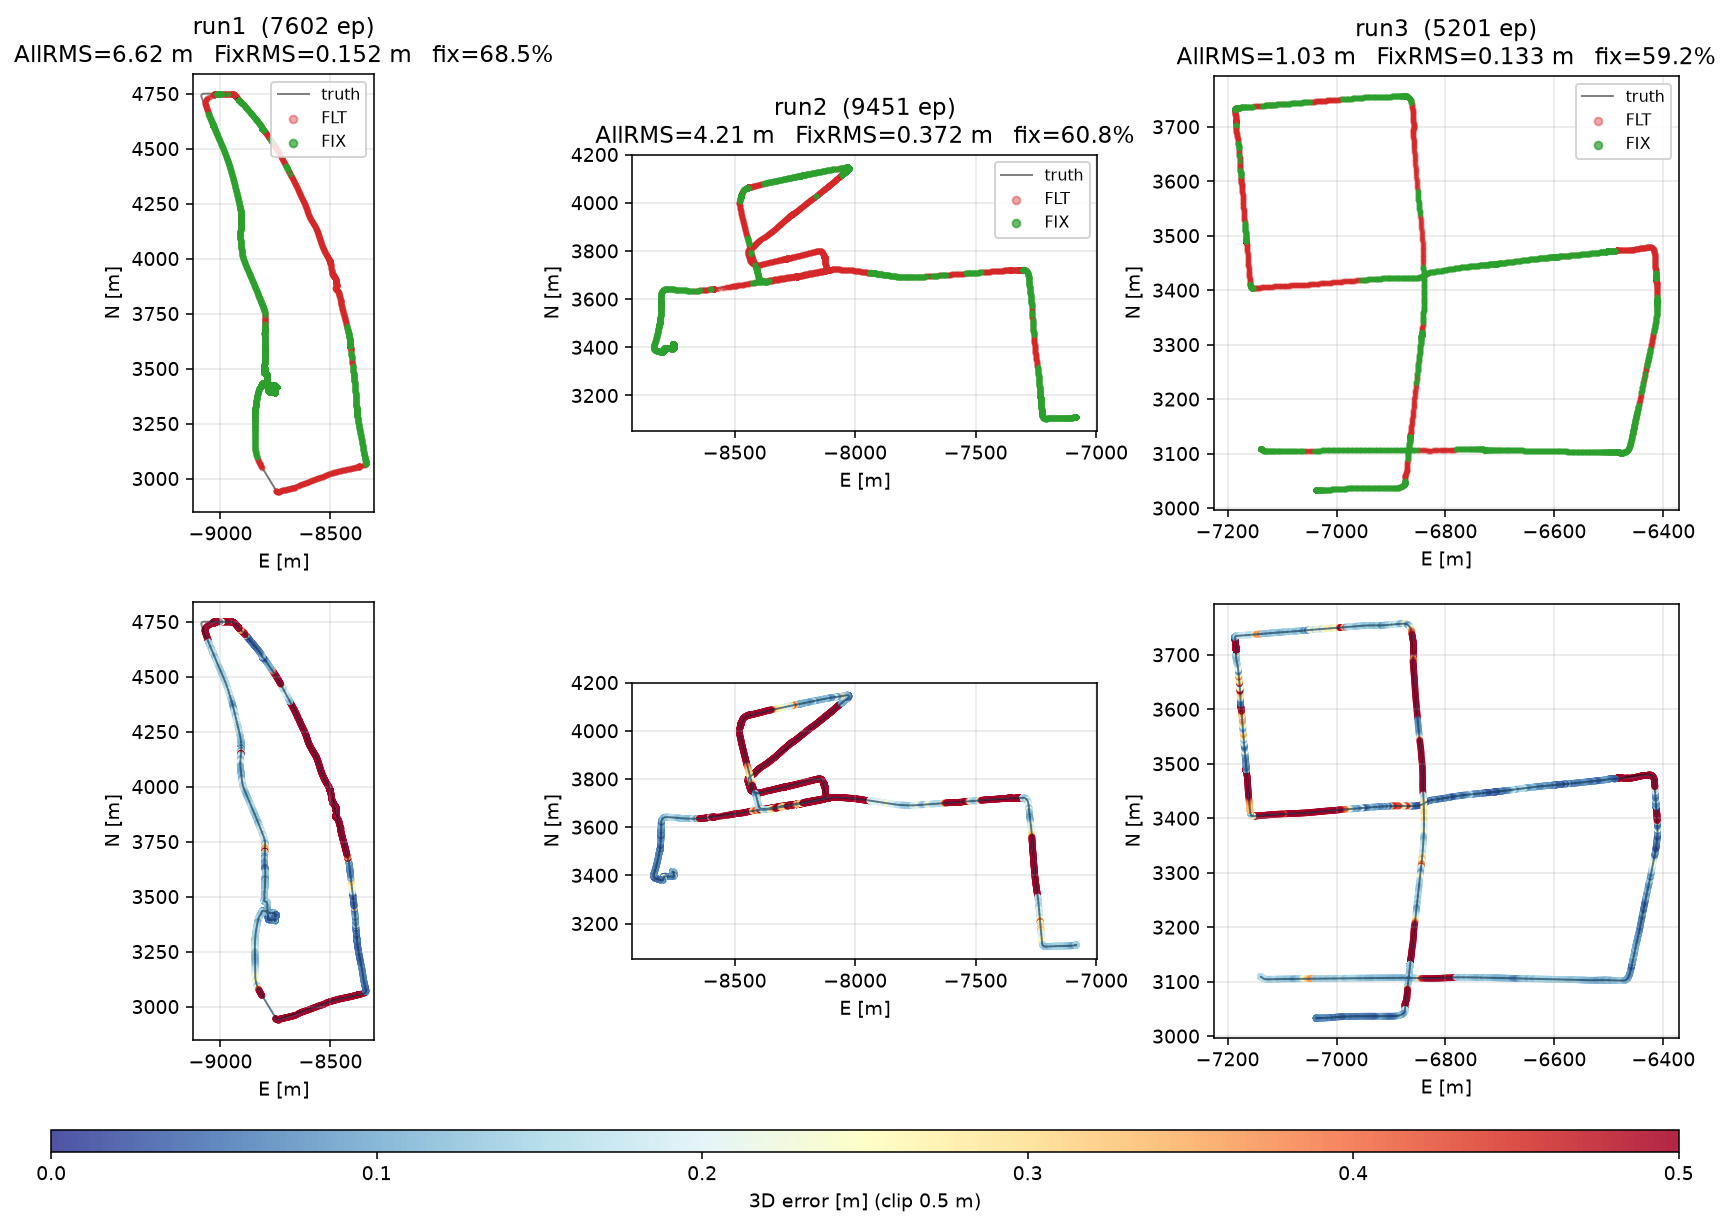
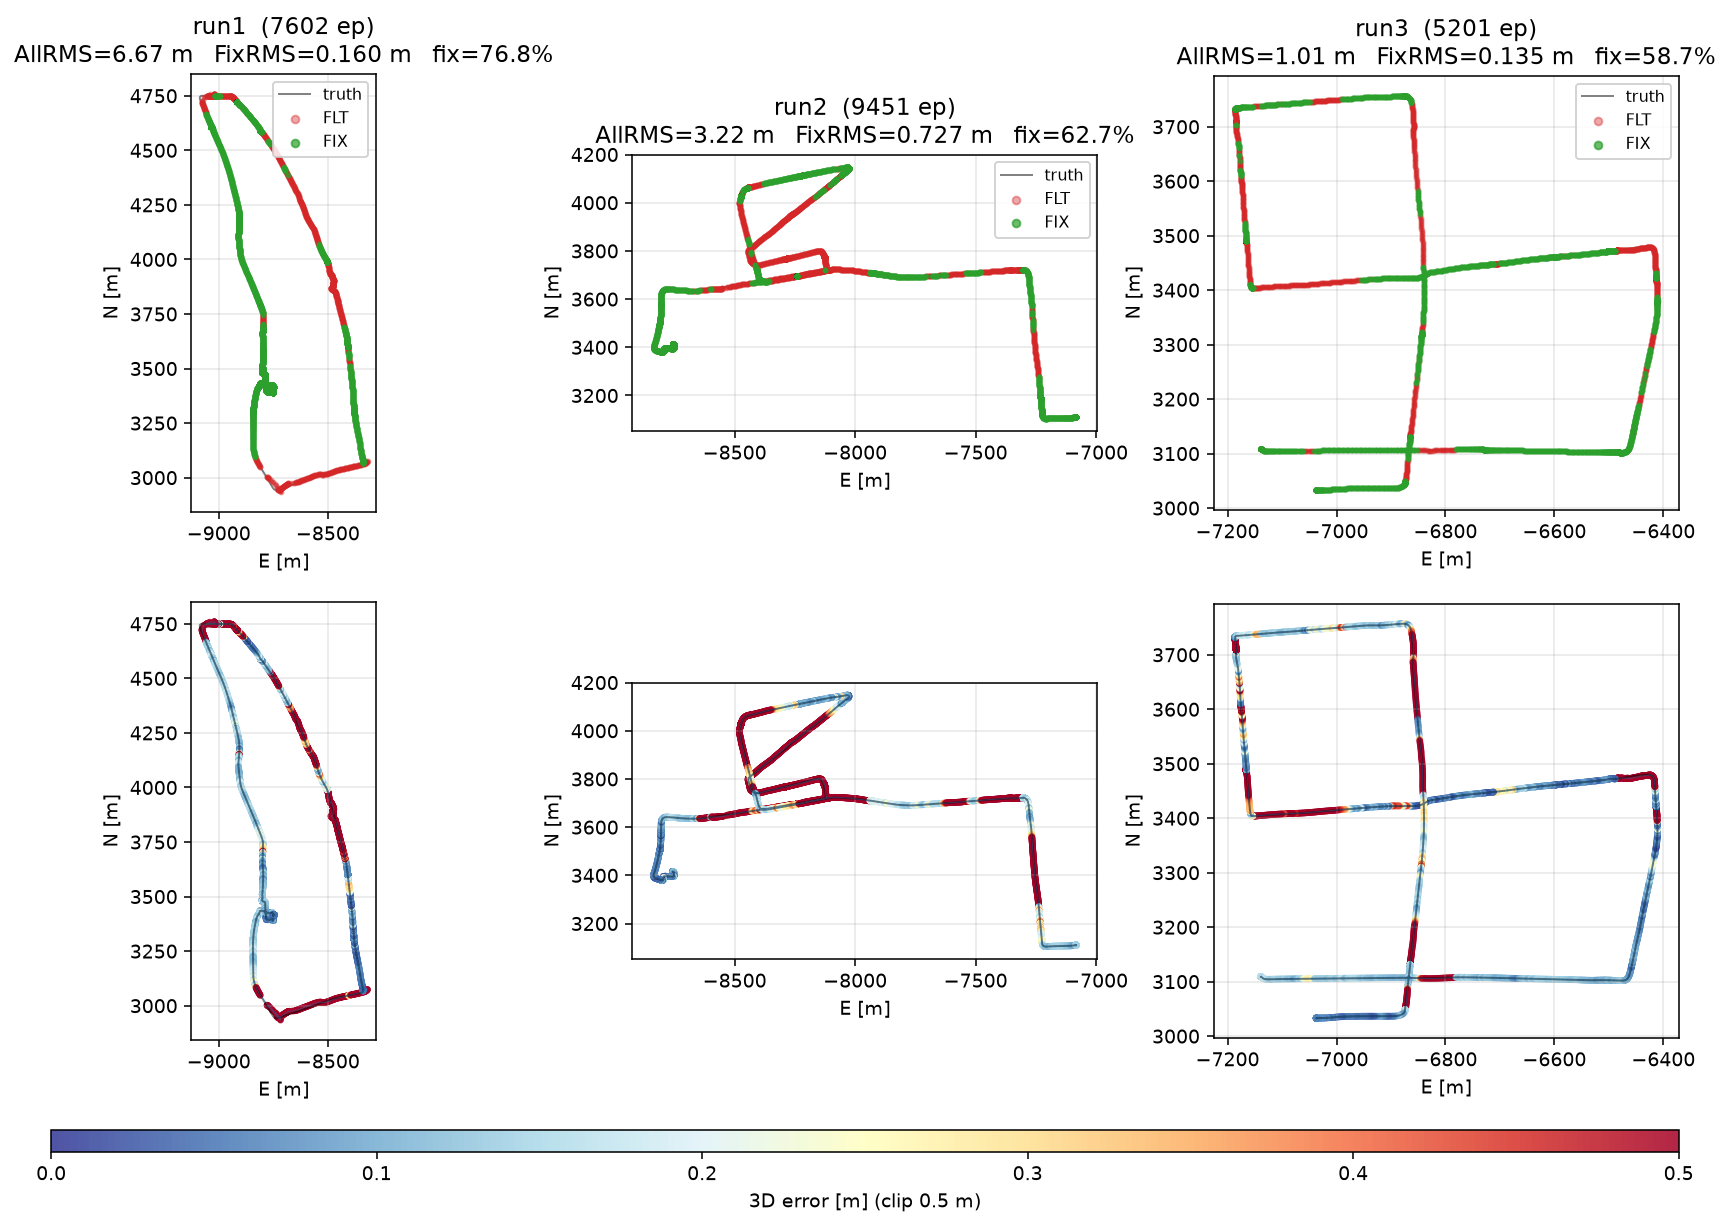
Refactor/remove zupt (#86)
* refactor: remove ZUPT/ZARU stationary priors and update benchmark results

* chore: rename plot_tokyo_defaults.py to plot_defaults.py

diff --git a/src/gnss_fgo/factors.py b/src/gnss_fgo/factors.py
@@ -1,14 +1,10 @@
-"""Factor builders: DD PR/CP with persistent arcs & seeding, SD Doppler, NHC, ZUPT."""
+"""Factor builders: DD PR/CP with persistent arcs & seeding, SD Doppler, NHC."""
 
 import gtsam
 import numpy as np
 from cssrlib.gnss import SAT_SYS_ARR, sat2prn, uGNSS
 
-from .utils import (
-    compute_zupt_stats as _utils_compute_zupt_stats,
-    get_wavelengths,
-    huber_noise,
-)
+from .utils import get_wavelengths, huber_noise
 
 # ── Ambiguity seeding ─────────────────────────────────────────────────
 
@@ -318,77 +314,4 @@ def add_nhc_factor(tc, graph, key_idx, gyro_mean_rh=None):
     graph.add(gtsam.NhcFactor(
         tc.Xpose(key_idx), tc.Vel(key_idx), omega,
         np.asarray(lever, dtype=float), noise))
-    return True
-
-
-# ── ZUPT / ZARU stationary constraints ────────────────────────────────
-
-_ZUPT_MIN_SAMPLES = 5         # minimum IMU samples for valid sample std
-_ZUPT_MAX_ACC_STD = 0.55      # stationary accelerometer std gate [m/s²]
-_ZUPT_MAX_GYRO_STD = 0.030    # stationary gyroscope std gate [rad/s]
-_ZUPT_MAX_GYRO_MEDIAN = 0.020 # stationary gyroscope median gate [rad/s]
-_ZUPT_SIGMA_VEL = 0.5         # zero-velocity prior σ [m/s]
-_ZARU_SIGMA_GYRO_BIAS = 0.010 # stationary gyro-bias prior σ [rad/s]
-
-
-def is_still_imu_window(acc: np.ndarray, gyro: np.ndarray,
-                        bias_gyro_ref: np.ndarray | None = None) -> bool:
-    """Shared IMU stillness check for both sequential and batch pipelines."""
-    if len(acc) < _ZUPT_MIN_SAMPLES:
-        return False
-    acc_std = float(np.sqrt(np.mean(np.sum((acc - acc.mean(axis=0)) ** 2, axis=1))))
-    gyro_std = float(np.sqrt(np.mean(np.sum((gyro - gyro.mean(axis=0)) ** 2, axis=1))))
-    resid = gyro if bias_gyro_ref is None else (gyro - bias_gyro_ref)
-    gyro_med = float(np.median(np.linalg.norm(resid, axis=1)))
-    return (acc_std <= _ZUPT_MAX_ACC_STD
-            and gyro_std <= _ZUPT_MAX_GYRO_STD
-            and gyro_med <= _ZUPT_MAX_GYRO_MEDIAN)
-
-
-def _zupt_should_fire(tc, n_imu, info, imu_idx_prev):
-    """Run IMU stillness check and return stats dict on hit, else None."""
-    if int(n_imu) < _ZUPT_MIN_SAMPLES:
-        return None
-    bias_init = tc.tc_bias_init
-    if bias_init is not None:
-        ref_acc = np.asarray(bias_init.accelerometer(), dtype=np.float64)
-        ref_gyro = np.asarray(bias_init.gyroscope(), dtype=np.float64)
-    else:
-        ref_acc = ref_gyro = None
-    samples = tc.imu_data[int(imu_idx_prev):tc.imu_idx]
-    stats = _utils_compute_zupt_stats(samples, ref_acc, ref_gyro)
-    if stats is None:
-        return None
-    info['zupt_acc_std'] = stats['acc_std']
-    info['zupt_gyro_std'] = stats['gyro_std']
-    info['zupt_gyro_median'] = stats['gyro_median']
-    if stats['acc_std'] > _ZUPT_MAX_ACC_STD:
-        return None
-    if stats['gyro_std'] > _ZUPT_MAX_GYRO_STD:
-        return None
-    if stats['gyro_median'] > _ZUPT_MAX_GYRO_MEDIAN:
-        return None
-    return stats
-
-
-def add_zupt_factors(tc, graph, key_idx, imu_idx_prev, n_imu, info):
-    """Add ZUPT (vel=0) and ZARU (gyro bias = gyro_mean) factors when stationary."""
-    stats = _zupt_should_fire(tc, n_imu, info, int(imu_idx_prev))
-    if stats is None:
-        return False
-    graph.add(gtsam.PriorFactorVector(
-        tc.Vel(key_idx),
-        np.zeros(3, dtype=np.float64),
-        gtsam.noiseModel.Isotropic.Sigma(3, _ZUPT_SIGMA_VEL)))
-    info['zupt'] = True
-
-    sigmas_bias = np.array([np.inf, np.inf, np.inf,
-                            _ZARU_SIGMA_GYRO_BIAS,
-                            _ZARU_SIGMA_GYRO_BIAS,
-                            _ZARU_SIGMA_GYRO_BIAS])
-    graph.add(gtsam.PriorFactorConstantBias(
-        tc.Bias(key_idx),
-        gtsam.imuBias.ConstantBias(np.zeros(3), stats['gyro_mean']),
-        gtsam.noiseModel.Diagonal.Sigmas(sigmas_bias)))
-    info['zaru'] = True
     return True

diff --git a/src/gnss_fgo/utils.py b/src/gnss_fgo/utils.py
@@ -224,41 +224,6 @@ def estimate_stationary_bias(
     return bias_acc, gyro_mean
 
 
-def compute_zupt_stats(
-    imu_samples: List[dict],
-    bias_acc_ref: Optional[np.ndarray] = None,
-    bias_gyro_ref: Optional[np.ndarray] = None,
-) -> Optional[dict]:
-    """Stationarity stats over a window of IMU samples."""
-    n = len(imu_samples)
-    if n == 0:
-        return None
-    acc = np.array([im['acc'] for im in imu_samples], dtype=np.float64)
-    gyro = np.array([im['gyro'] for im in imu_samples], dtype=np.float64)
-    acc_mean = acc.mean(axis=0)
-    acc_dev = acc - acc_mean
-    gyro_dev = gyro - gyro.mean(axis=0)
-    acc_var = float((acc_dev * acc_dev).sum(axis=1).mean())
-    gyro_var = float((gyro_dev * gyro_dev).sum(axis=1).mean())
-    if bias_acc_ref is not None:
-        acc_mean_corr = acc_mean - np.asarray(bias_acc_ref, dtype=np.float64)
-    else:
-        acc_mean_corr = acc_mean
-    if bias_gyro_ref is not None:
-        gyro_resid = gyro - np.asarray(bias_gyro_ref, dtype=np.float64)
-    else:
-        gyro_resid = gyro
-    gyro_resid_norm = np.linalg.norm(gyro_resid, axis=1)
-    return {
-        'n': int(n),
-        'acc_std': float(np.sqrt(max(acc_var, 0.0))),
-        'gyro_std': float(np.sqrt(max(gyro_var, 0.0))),
-        'gyro_median': float(np.median(gyro_resid_norm)),
-        'acc_norm_mean': float(np.linalg.norm(acc_mean_corr)),
-        'gyro_mean': gyro.mean(axis=0),
-    }
-
-
 # ── RINEX signal auto-detection ───────────────────────────────────────
 
 _BAND_PRIORITY = (1, 2, 5, 7, 6, 8, 3, 4, 9)

diff --git a/src/gnss_fgo/pipeline.py b/src/gnss_fgo/pipeline.py
@@ -232,7 +232,6 @@ def run_tc_epoch(tc, obs, obsb, rs, vs, rsb, sat, el, iu,
     tc.tc_epoch += 1
     key_idx = tc.tc_epoch
     info['tc_epoch'] = key_idx
-    imu_idx_prev = tc.imu_idx
     _, tow_obs = time2gpst(obs.t)
     pim, n_imu, gyro_mean, tc.imu_idx = _utils_build_pim(
         tc.imu_params, tc.tc_bias, tc.imu_data, tc.imu_idx, target_tow=tow_obs)
@@ -270,7 +269,7 @@ def run_tc_epoch(tc, obs, obsb, rs, vs, rsb, sat, el, iu,
     pred_ecef = tc._antenna_ecef(
         pred_nav.pose(), R_enu2ecef @ pred_enu + tc.base_ecef)
 
-    # 3. Measurement factors (DDPR, DDCP, SD Doppler, NHC, ZUPT)
+    # 3. Measurement factors (DDPR, DDCP, SD Doppler, NHC)
     info['n_dd'] = _tc_factors.build_dd_factors(
         tc, graph, values, obs, obsb, obs_sd,
         rs, rsb, sat, el, iu, ir_map,
@@ -281,8 +280,6 @@ def run_tc_epoch(tc, obs, obsb, rs, vs, rsb, sat, el, iu,
         pred_ecef, gyro_mean, info)
     if _tc_factors.add_nhc_factor(tc, graph, key_idx, gyro_mean_rh=gyro_mean):
         info['nhc'] = True
-    _tc_factors.add_zupt_factors(
-        tc, graph, key_idx, int(imu_idx_prev), int(n_imu), info)
 
     # 4. Fixed-lag smoother update
     pose_tc, ecef_tc, early = _solve_isam2(

diff --git a/src/gnss_fgo/batch_graph.py b/src/gnss_fgo/batch_graph.py
@@ -11,8 +11,19 @@ from cssrlib.gnss import ecef2pos, rSigRnx, sat2prn, uGNSS, uTYP
 from cssrlib.rtk import rtkpos
 from gtsam.symbol_shorthand import B, N, V, X
 
-from .factors import is_still_imu_window
 from .utils import enu_frame, huber_noise, make_imu_params
+
+
+def is_still_imu_window(acc: np.ndarray, gyro: np.ndarray,
+                        bias_gyro_ref: np.ndarray | None = None) -> bool:
+    """IMU stillness check for batch ZUPT."""
+    if len(acc) < 5:
+        return False
+    acc_std = float(np.sqrt(np.mean(np.sum((acc - acc.mean(axis=0)) ** 2, axis=1))))
+    gyro_std = float(np.sqrt(np.mean(np.sum((gyro - gyro.mean(axis=0)) ** 2, axis=1))))
+    resid = gyro if bias_gyro_ref is None else (gyro - bias_gyro_ref)
+    gyro_med = float(np.median(np.linalg.norm(resid, axis=1)))
+    return acc_std <= 0.55 and gyro_std <= 0.030 and gyro_med <= 0.020
 
 
 # ── Row layout for batch measurement arrays ───────────────────────────

diff --git a/examples/plot_defaults.py b/examples/plot_defaults.py
@@ -1,9 +1,9 @@
 #!/usr/bin/env python3
-"""Render docs/tokyo_defaults.png — tokyo run1/run2/run3 planar trajectory.
+"""Render 3-run planar trajectory + 3D error summary PNG (e.g. docs/tokyo_defaults.png).
 
 Usage:
-  python examples/plot_tokyo_defaults.py \
-      run1.npz run2.npz run3.npz [-o docs/tokyo_defaults.png] [--clip 0.5]
+  python examples/plot_defaults.py \
+      run1.npz run2.npz run3.npz [-o docs/defaults.png] [--clip 0.5]
 """
 
 import os
@@ -98,7 +98,7 @@ def draw_fix_status_panel(ax, d):
 
 def main():
     args = sys.argv[1:]
-    out = 'docs/tokyo_defaults.png'
+    out = 'docs/defaults.png'
     clip_max = 0.5
     files = []
     i = 0
@@ -114,7 +114,7 @@ def main():
             i += 1
 
     if len(files) != 3:
-        print("Usage: plot_tokyo_defaults.py run1.npz run2.npz run3.npz "
+        print("Usage: plot_defaults.py run1.npz run2.npz run3.npz "
               "[-o out.png] [--clip 0.5]")
         sys.exit(1)
 

diff --git a/README.md b/README.md
@@ -21,7 +21,7 @@ and tunnels.
   with a dimension-adaptive fixed-failure-rate ratio test (FFRT) and
   full-AR DD integer fix-and-hold (`armode=2`)
 - **Tight IMU coupling** — 100 Hz `CombinedImuFactor` preintegration;
-  NHC and ZUPT vehicle constraints (C++ factors with exact Jacobians)
+  NHC vehicle constraint (C++ factor with exact Jacobians)
 - **Velocity through outages** — between-satellite single-differenced
   Doppler (clock-free), injected on every epoch
 - **Integrity & recovery** — LLI + geometry-free cycle-slip detection
@@ -41,12 +41,12 @@ urban-Nagoya drives
 
 | run         | length    | AllRMS  | median  | FixRMS  | fix %  | <50 cm |
 |-------------|-----------|---------|---------|---------|--------|--------|
-| tokyo run1  | 11928 ep  |  5.57 m | 0.040 m | 0.13 m  | 74.4 % | 80.9 % |
-| tokyo run2  |  9151 ep  |  2.17 m | 0.034 m | 0.07 m  | 86.9 % | 91.5 % |
-| tokyo run3  | 15301 ep  |  3.90 m | 0.034 m | 0.16 m  | 84.0 % | 89.4 % |
-| nagoya run1 |  7602 ep  |  6.62 m | 0.134 m | 0.15 m  | 68.5 % | 71.1 % |
-| nagoya run2 |  9451 ep  |  4.21 m | 0.267 m | 0.37 m  | 60.8 % | 52.4 % |
-| nagoya run3 |  5201 ep  |  1.03 m | 0.137 m | 0.13 m  | 59.2 % | 79.2 % |
+| tokyo run1  | 11928 ep  |  1.63 m | 0.041 m | 0.13 m  | 74.4 % | 81.0 % |
+| tokyo run2  |  9151 ep  |  1.36 m | 0.034 m | 0.08 m  | 87.1 % | 92.7 % |
+| tokyo run3  | 15301 ep  |  1.47 m | 0.034 m | 0.16 m  | 84.0 % | 89.3 % |
+| nagoya run1 |  7602 ep  |  6.67 m | 0.134 m | 0.16 m  | 76.8 % | 78.5 % |
+| nagoya run2 |  9451 ep  |  3.22 m | 0.254 m | 0.73 m  | 62.7 % | 53.4 % |
+| nagoya run3 |  5201 ep  |  1.01 m | 0.139 m | 0.13 m  | 58.7 % | 79.1 % |
 
 
 ![tokyo_defaults](docs/tokyo_defaults.png)
@@ -90,7 +90,7 @@ Flat module layout under `src/gnss_fgo/`:
 |---|---|
 | `runner.py` | `ImuGnssTc.process(obs, obsb)` entry point, DD prep, and cssrlib boundary |
 | `pipeline.py` | single-phase epoch flow (`bootstrap` / IMU prediction → slip check → factors → iSAM2 → `run_ar`) and outage recovery |
-| `factors.py` | measurement → GTSAM factor builders (DD PR/CP, SD Doppler, NHC, ZUPT, ambiguity seeding) |
+| `factors.py` | measurement → GTSAM factor builders (DD PR/CP, SD Doppler, NHC, ambiguity seeding) |
 | `ar.py` | LAMBDA + partial AR with dimension-adaptive FFRT and full-AR fix-and-hold |
 | `state.py` | runtime state records (`SatStateMap`, `CurrentEpochState`) |
 | `config.py` | `TcConfig` and `BatchConfig` |
